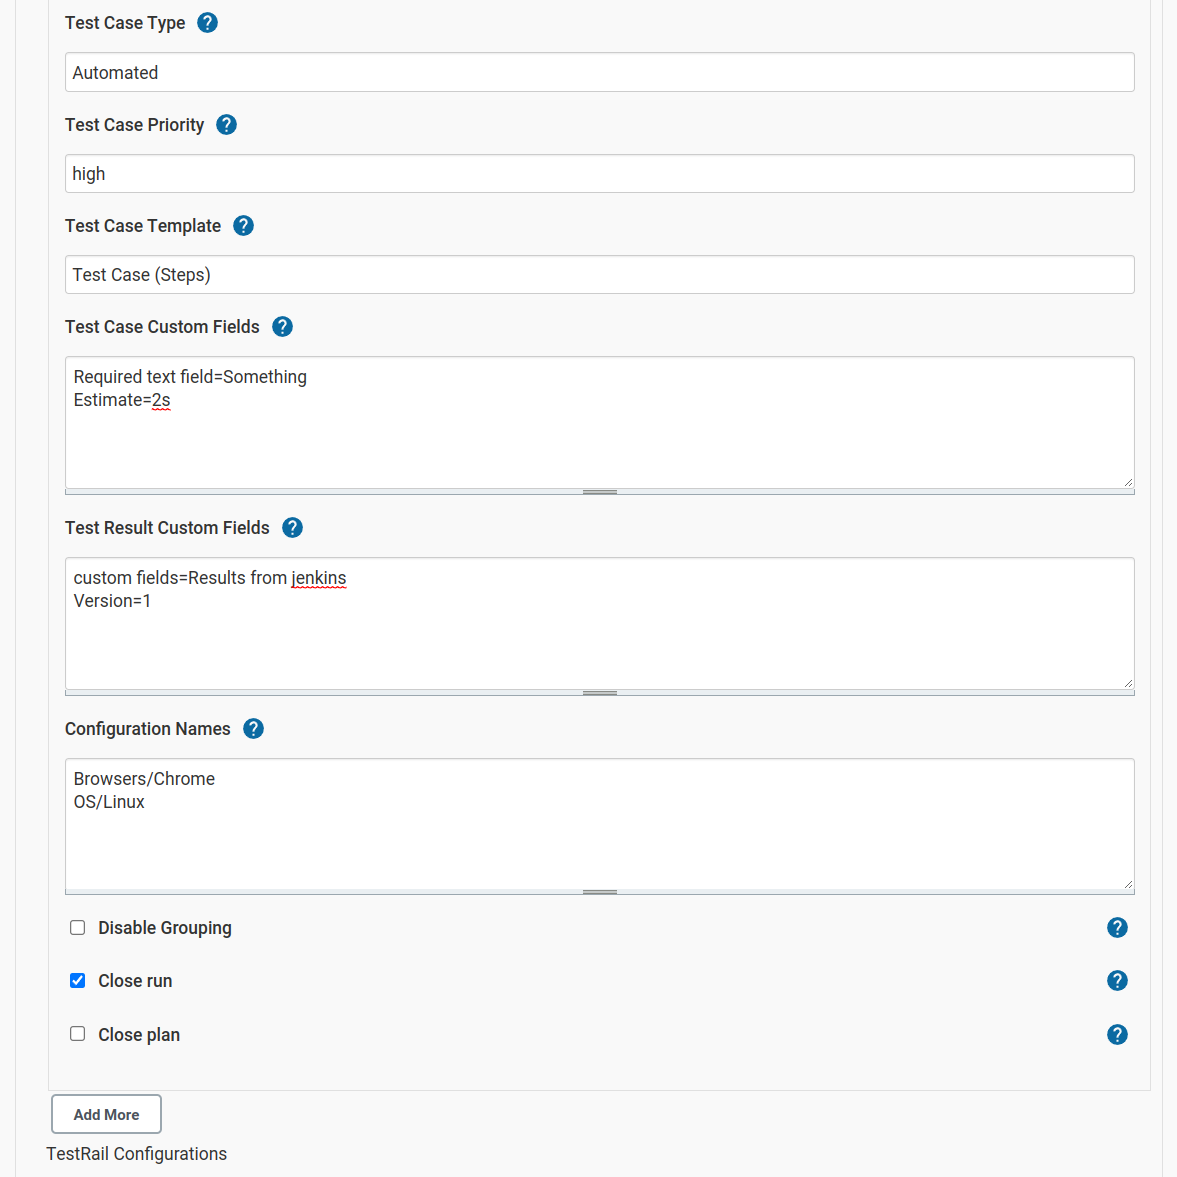
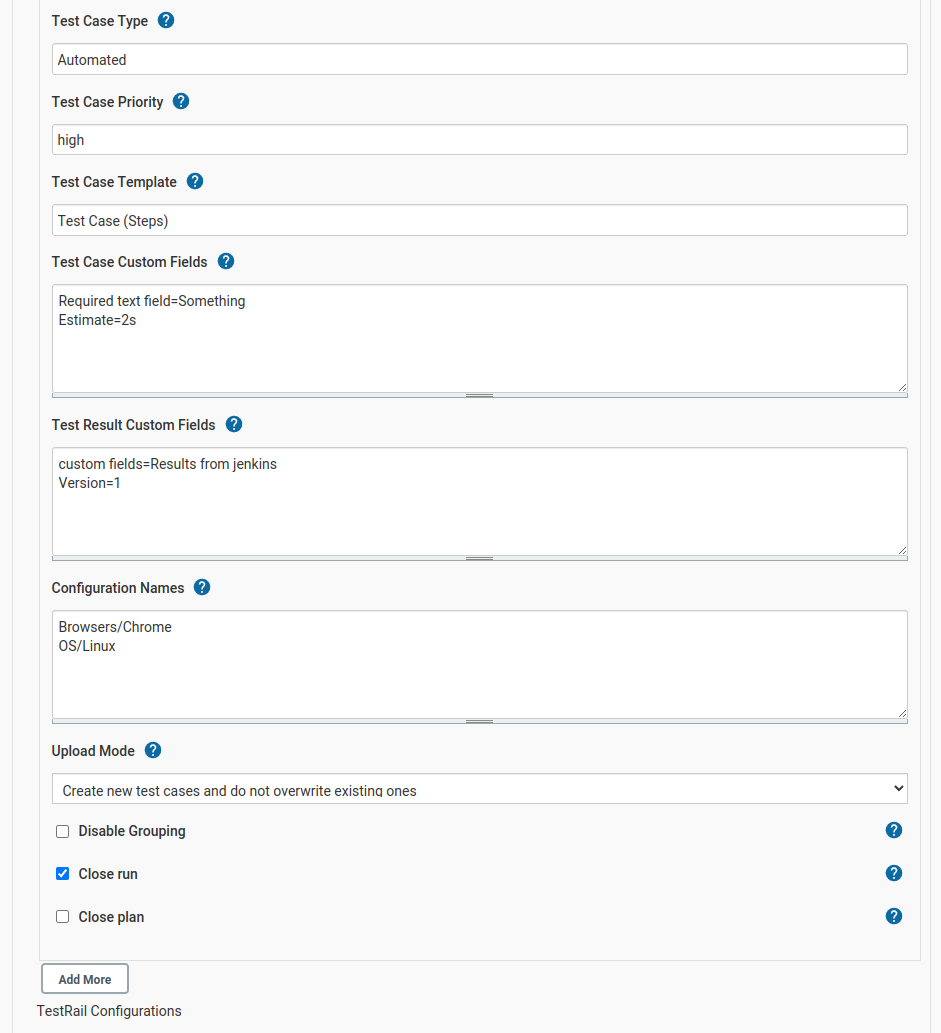
NC-346 (#10)
* NC-346 Update content

* NC-346 Update images

* NC-346 Update content related to Upload Mode

* NC-346 Try to improve the images display effect

* NC-346 Try to improve the images display effect

diff --git a/docs/cicd-apps/jenkins.md b/docs/cicd-apps/jenkins.md
@@ -103,6 +103,7 @@ pipeline {
             Browser/Chrome''', 
         milestonePath: 'M1/M2', 
         resultFilePattern: '**/surefire-reports/*.xml',
+        uploadMode: 'CREATE_NO_UPDATE',
         searchMode: 'Path',
         testCaseCustomFields: '''Required text field=Hello from Jenkins
             estimate=30s''', 
@@ -127,35 +128,35 @@ You can add multiple Raillflow post-build actions using `Add More` button. This 
 :::
 
 
-| Field Name                       | Required | Description                                                                                                                                                                                                                                                                                                                                                                                       |
-|----------------------------------|----------|-------------|
-| TestRail Server 	               | Yes	| Select one of the server names configured in "Global settings configuration"	|
-| TestRail Project                 | Yes   | The name of a project in TestRail to which results should be exported			|
-| Fail build if upload unsuccessful| N/A      | If checked, the build will be marked as failed if for any reason the plugin could not upload the results. This could be due to Railflow issues, TestRail server issues, network issues, etc.	|
-| Override TestRail Credentials	   | No	| If specified, it overrides TestRail user credentials defined in Global Configuration	|
-| Results File Pattern   | Yes      | The file path to the test report file(s) generated during the build. Ant-style patterns such as **\*\*/surefire-reports/\*.xml** can be used.<br/>E.g. use **target/surefire-reports/*.xml** to capture all XML files in **target/surefire-reports** directory.	|
-| Report Format            | Yes      | Results file format	|
-| Search Mode                      | Yes      | Specifies the test case lookup algorithm. <br/> **`Name:`** search for test case matching the name within the entire test suite. If test case found, update the test case. If test case not found, create a new test case within specified Test Case Path <br/> **`Path`**: search for test case matching the name within the specified Test Case Path. If test case found, update the test case. If test case not found, create a new test case within specified Test Case Path	|
-| Test Case Path				   | Yes | Path to where Railflow should upload test case definitions, must contain suite name in the beginning (for single-suite project, suite name is always 'Master'), e.g. Master/Section1/Section2 |
-| Test Plan Name     | No       | Name of a test plan in TestRail to which test results will be added |
-| Test Run Name     | No       | Name of a test run in TestRail to which test results will be added |
-| Milestone Path      | No       | Path to a milestone in TestRail to which test run/plan will be added.<br/>E.g. Milestone1/Milestone2 |
-| Smart Test Failure Assignment  |	No	| A comma separated list of user emails for smart failure assignment. Each failed result will be assigned to a person from this list in a round robin fashion<br/>|
-| Log Level | No | Logging level for the plugin log file (.railflow.log) |
+| Field Name                        | Required | Description                                                                                                                                                                                                                                                                                                                                                                                       |
+|-----------------------------------|----------|-------------|
+| TestRail Server 	                 | Yes	| Select one of the server names configured in "Global settings configuration"	|
+| TestRail Project                  | Yes   | The name of a project in TestRail to which results should be exported			|
+| Fail build if upload unsuccessful | N/A      | If checked, the build will be marked as failed if for any reason the plugin could not upload the results. This could be due to Railflow issues, TestRail server issues, network issues, etc.	|
+| Override TestRail Credentials	    | No	| If specified, it overrides TestRail user credentials defined in Global Configuration	|
+| Results File Pattern              | Yes      | The file path to the test report file(s) generated during the build. Ant-style patterns such as **\*\*/surefire-reports/\*.xml** can be used.<br/>E.g. use **target/surefire-reports/*.xml** to capture all XML files in **target/surefire-reports** directory.	|
+| Report Format                     | Yes      | Results file format	|
+| Search Mode                       | Yes      | Specifies the test case lookup algorithm. <br/> **`Name:`** search for test case matching the name within the entire test suite. If test case found, update the test case. If test case not found, create a new test case within specified Test Case Path <br/> **`Path`**: search for test case matching the name within the specified Test Case Path. If test case found, update the test case. If test case not found, create a new test case within specified Test Case Path	|
+| Test Case Path				                | Yes | Path to where Railflow should upload test case definitions, must contain suite name in the beginning (for single-suite project, suite name is always 'Master'), e.g. Master/Section1/Section2 |
+| Test Plan Name                    | No       | Name of a test plan in TestRail to which test results will be added |
+| Test Run Name                     | No       | Name of a test run in TestRail to which test results will be added |
+| Milestone Path                    | No       | Path to a milestone in TestRail to which test run/plan will be added.<br/>E.g. Milestone1/Milestone2 |
+| Smart Test Failure Assignment     |	No	| A comma separated list of user emails for smart failure assignment. Each failed result will be assigned to a person from this list in a round robin fashion<br/>|
+| Log Level                         | No | Logging level for the plugin log file (.railflow.log) |
 
 :::tip  Railflow: Post-Build action advanced section
 :::
 
 
-| Advanced Field Name | Description                                                                                                                                                                                                                                                                                                                                                                                       |
-|---------------------|--------------------------------------------------------------------------------------------|
+| Advanced Field Name | Description                                                                                                                                                                                                                                                                                                                                                                                  |
+|---------------------|---------------------------------------------------------------------------------------|
 | Test Case Type            | Name of a case type in TestRail, e.g. `Automated` |
 | Test Case Priority        | Name of a case priority in TestRail, e.g. `High` |
 | Test Case Template        | Name of a TestRail template. If it is blank, `Test Case (Steps)` will be used. |
 | Test Case Custom Fields   |  Values for case fields in TestRail can be specified in this field. The format is [TestRail field label]=[value] and each field name\\value pair should start with the new line.<br/>E.g.:<br/>Custom Field One=foo<br/>Custom Field Two=bar |
 | Test Result Custom Fields | Values for result fields in TestRail can be specified in this field. The format is [TestRail field label]=[value] and each field name\\value pair should start with the new line.<br/>E.g.:<br/>Custom Result Field One=foo<br/>Custom Result Field Two=bar |
 | Configuration Names       | A list of configuration names in TestRail. The format is [Config Group Name]/[Config Name]. Each entry must start with the new line.<br/>E.g.:<br/>Operating Systems/Linux<br/>Browsers/Chrome|
-| Test case  to ID map      | A list of test name to TestRail ID mappings. Each line contains a mapping between fully-qualified test case name and TestRail ID.<br/>E.g.: io.railflow.Test.method1=42<br/>io.railflow.Test.method2=43|
+| Upload Mode               | <div> <b>Test case upload mode:</b> <ul> <li><b>Create new test cases and do not overwrite existing ones:</b><br/> If test case not found, create a new test case within specified Test Case Path.<br/> If test case found, do not update the test case.<br/> Value for pipeline: CREATE_NO_UPDATE </li> <li><b>Create new cases and overwrite existing ones:</b><br/> If test case not found, create a new test case within specified Test Case Path.<br/> If test case found, update the test case.<br/> Value for pipeline: CREATE_UPDATE </li> <li> <b>Do not create new cases and overwrite existing ones:</b><br/> If test case not found, do not create a new test case and the corresponding test results will be abandoned.<br/> If test case found, update the test case.<br/> Value for pipeline: NO_CREATE_UPDATE </li> <li> <b>Do not create new cases and do not overwrite existing ones:</b><br/> If test case not found, do not create a new test case and the corresponding test results will be abandoned.<br/> If test case found, do not update the test case.<br/> Value for pipeline: NO_CREATE_NO_UPDATE </li> </ul> </div> |
 | Disable Grouping	        | If checked, Railflow will ignore structure in report files and upload all test cases into one Section, defined by the Test Path parameter. |
 | Close Run			        | If checked, Railflow will close the test run in TestRail and archive its tests and results |
 | Close Plan		        | If checked, Railflow will close the test plan in TestRail and archive its tests and results |
